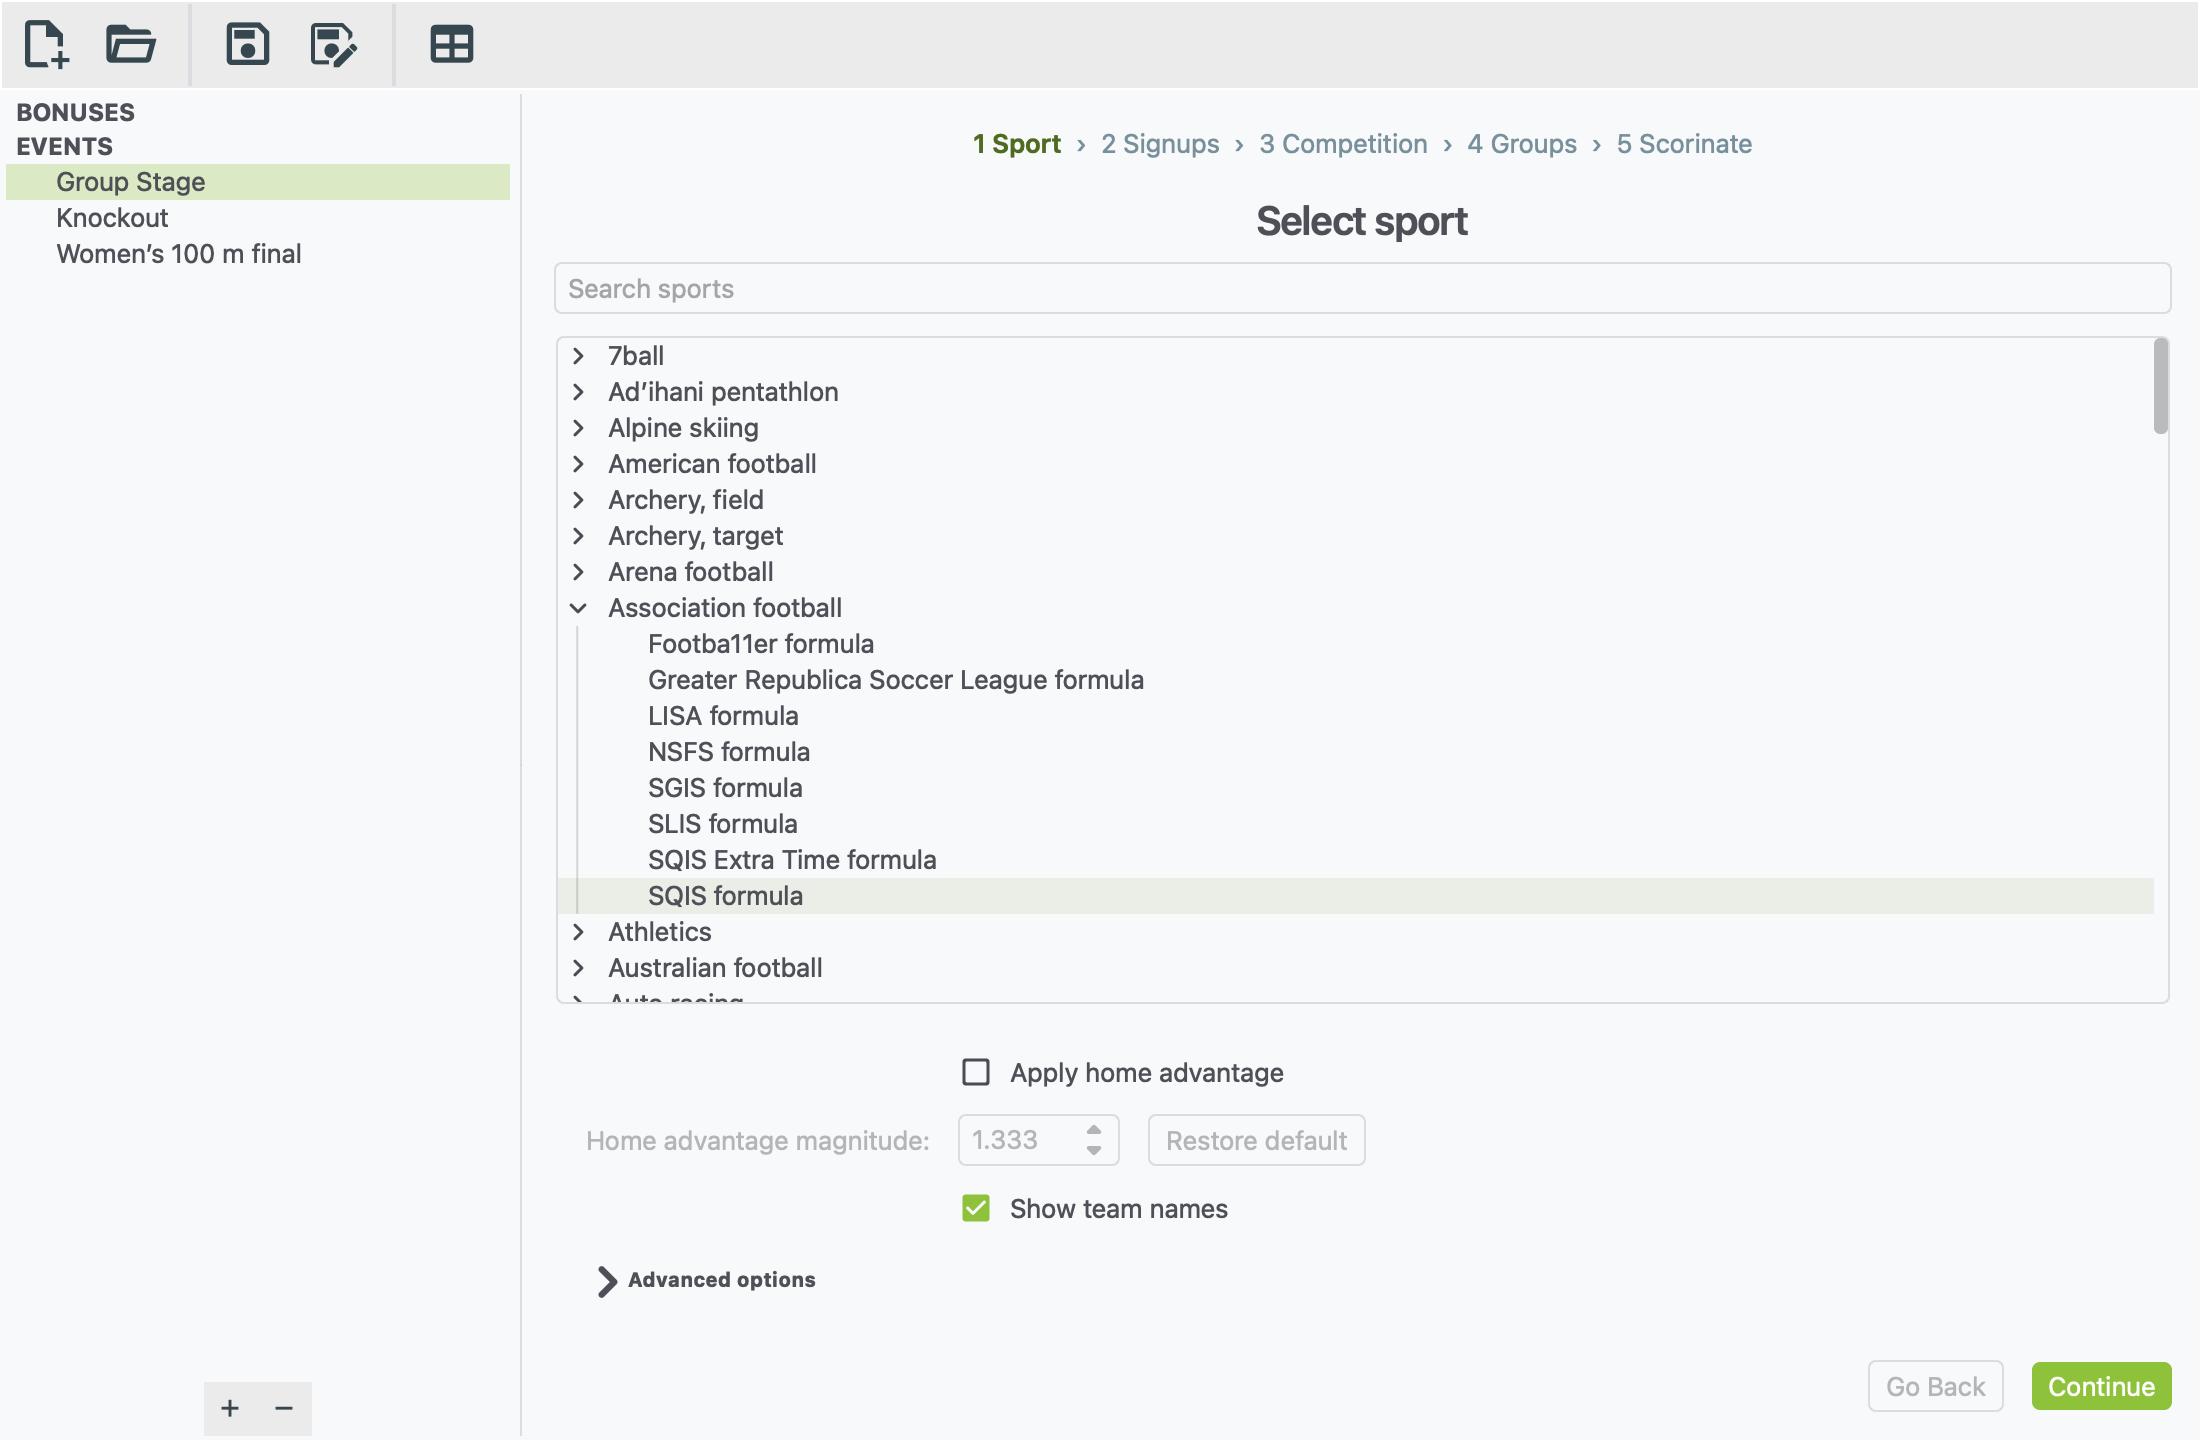
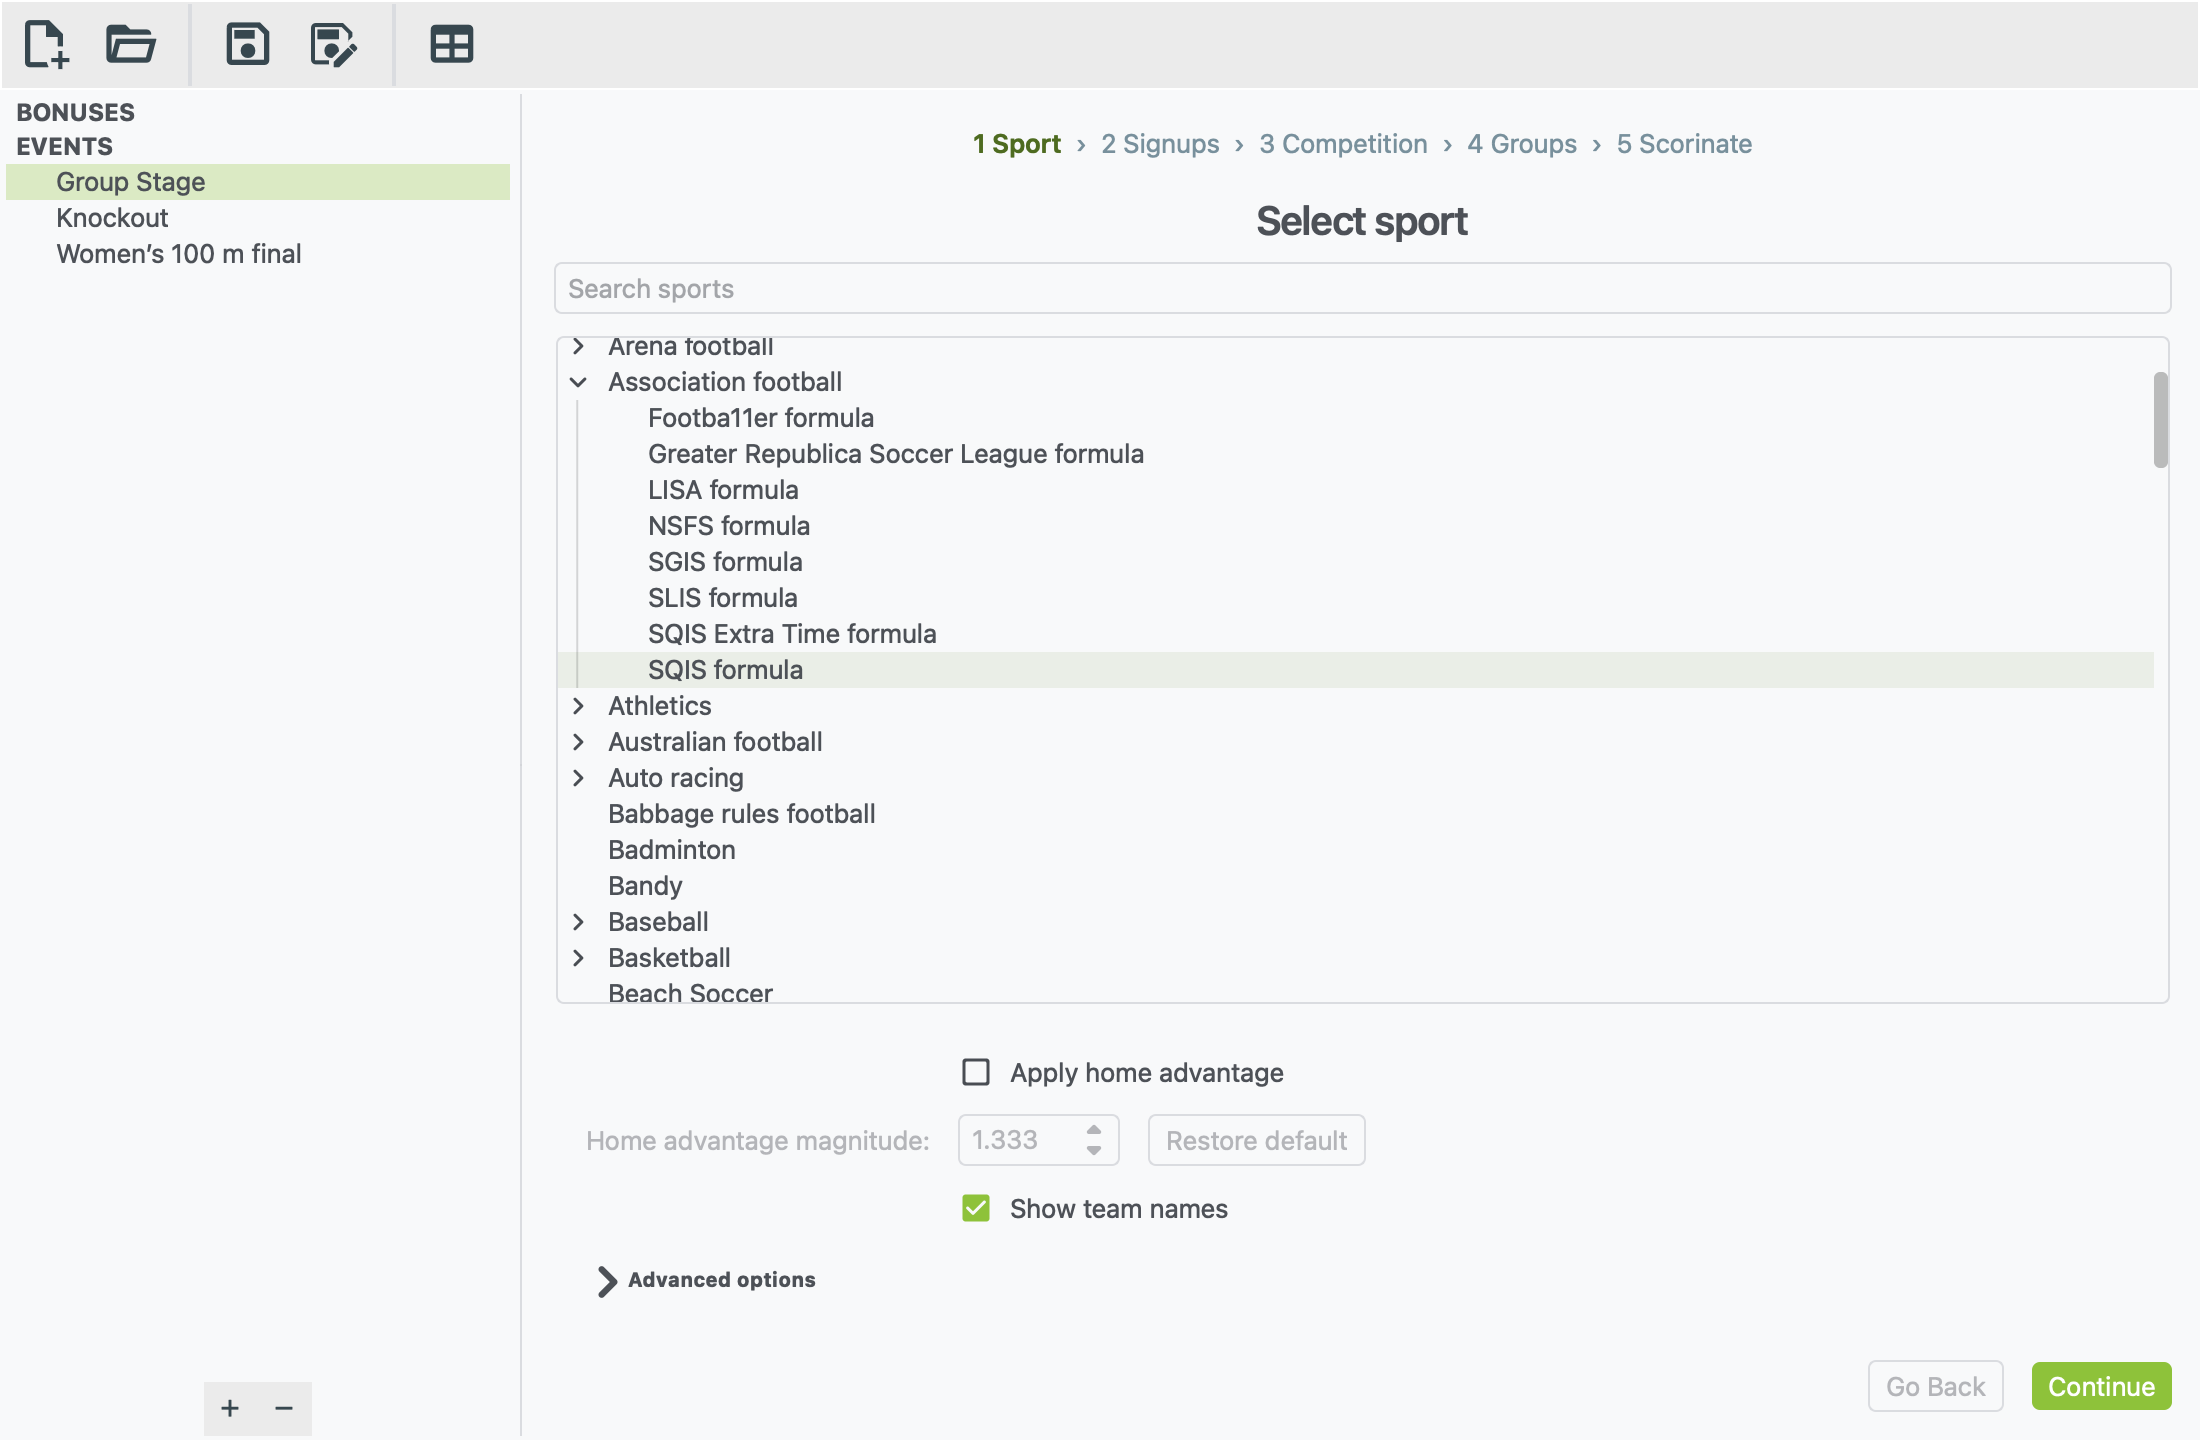
Walk through setting up a race, with a screenshot of each step
The 100 m final was only ever shown as a finished result. "Your first race"
now sets it up step by step: picking the round, the minimum and maximum
skill a range formula needs, Mass start, one group per race, and what a
race result looks like, including a DQ or DNF. It ends with how to run heats
before a final.

The screenshot script captures each of those steps, and scrolls the sport
list to the selected row so the chosen sport is always in view.

Changed region(s): [[0.2782, 0.2188, 0.5255, 0.7188]]

diff --git a/tools/docs_screenshots.py b/tools/docs_screenshots.py
@@ -160,6 +160,14 @@ class Shooter:
         nw.treeWidget.setCurrentItem(nw.m_eventsItem.child(i), 0)
         self.settle()
 
+    def centre_sport(self):
+        """Scroll the sport list so the chosen sport is in view."""
+        for view in self.app.cw.ee.sportSelector.findChildren(QAbstractItemView):
+            selected = view.selectionModel().selectedIndexes() if view.selectionModel() else []
+            if selected:
+                view.scrollTo(selected[0], QAbstractItemView.PositionAtCenter)
+        self.settle()
+
     def step(self, n):
         """Go to wizard step n (1-5) of the selected event."""
         ee = self.app.cw.ee
@@ -191,10 +199,7 @@ def run(shots, workdir):
                     (3, "05-step-competition"), (4, "06-step-groups")]:
         shots.step(n)
         if n == 1:
-            tree = ee.sportSelector
-            for view in tree.findChildren(type(cw.nw.treeWidget)):
-                if view.currentItem() is not None:
-                    view.scrollToItem(view.currentItem(), view.PositionAtCenter)
+            shots.centre_sport()
         shots.window(name)
 
     shots.modal("07-schedule", ee.viewSchedule)
@@ -233,8 +238,14 @@ def run(shots, workdir):
     with open(results_file, "w", encoding="utf-8") as f:
         f.write("\n".join(lines) + "\n")
 
-    # 100 m final: a race
+    # 100 m final: a race, every step
     shots.select_event(2)
+    for n, name in [(1, "20-race-sport"), (2, "21-race-signups"),
+                    (3, "22-race-competition"), (4, "23-race-groups")]:
+        shots.step(n)
+        if n == 1:
+            shots.centre_sport()
+        shots.window(name)
     shots.step(5)
     sw.scorinateMatchday(0)
     shots.window("16-race-results")

diff --git a/docs/first-race.md b/docs/first-race.md
@@ -1,0 +1,143 @@
+# Your first race
+
+This walk-through takes about 5 minutes. You'll set up a women's 100 m
+final with eight athletes, run it, and get a results list in finishing
+order.
+
+Races work a little differently from matches. Everyone competes at once,
+there are no fixtures, and there's one round instead of several matchdays.
+The five steps are the same, though:
+
+**1 Sport › 2 Signups › 3 Competition › 4 Groups › 5 Scorinate**
+
+If you haven't used xkoranate before, [Your first event](first-event.md)
+explains the basics in more detail.
+
+## Create the event
+
+1. Click **+** at the bottom of the sidebar.
+2. Type `Women's 100 m final` and press <kbd>Enter</kbd>.
+
+Each round of a race is its own event. A full 100 m competition might have
+three events: heats, semi-finals and a final.
+
+## Step 1: pick the race
+
+![Athletics, Women's 100 m, Final selected](screenshots/guide-20-race-sport.png)
+
+1. In the list, click the arrow next to **Athletics**.
+2. Click the arrow next to **Women's 100 m**.
+3. Click **Final**.
+
+You can also type `100 m` in **Search sports** to find it faster.
+
+Many races are split into rounds: **Heats**, **Quarterfinals**,
+**Semifinals** and **Final**. Pick the round you're running. Each round
+has its own range of times:
+
+- The **Final** is a tight field, running from about 10.8 to 11.2
+  seconds.
+- The **Heats** spread much wider, from about 11.1 to 14.8 seconds.
+
+Leave **Show team names** ticked. It puts each athlete's team code after
+their name in the results.
+
+Click **Continue**.
+
+## Step 2: add the athletes
+
+![Eight athletes with their team codes and skill](screenshots/guide-21-race-signups.png)
+
+Add one row per athlete:
+
+1. Click **+** under the list.
+2. Double-click each cell to fill it in:
+    - **Participant**: the athlete's name, such as `Mara Lindqvist`.
+    - **Team**: their nation's code, such as `AUR`.
+    - **Skill**: how good they are, such as `91`.
+3. Repeat for the other seven athletes.
+
+To bring in a list you already have, see
+[Importing sign-ups from a file](building-an-event.md#importing-sign-ups-from-a-file).
+
+**Minimum skill and Maximum skill.** Unlike SQIS football, this race
+formula uses a **range**. Each athlete is judged by where their skill sits
+between the minimum and the maximum, so set these two boxes to the bottom
+and top of your ranking system. Here that's 0 and 100.
+
+- An athlete at the maximum tends to run near the fast end of the round's
+  times. In this final, that's about 10.8 seconds.
+- An athlete near the minimum tends to run near the slow end, about 11.2.
+
+There's always some luck, so the fastest athlete on paper doesn't always
+win.
+
+**Pin to max participant rank** sets the maximum to your fastest
+athlete's skill automatically, so the best athlete in the field is
+treated as top level. Leave it unticked if your ranking system has a fixed
+top.
+
+Click **Continue**.
+
+## Step 3: choose the format
+
+![Mass start selected](screenshots/guide-22-race-competition.png)
+
+**Mass start** is already chosen. It means everyone races at once and is
+ranked by their time.
+
+- **Sort results** lists the athletes in finishing order. Leave it ticked.
+- **Show overall ranking across all groups** adds one combined list across
+  every group. You only need this for heats, to see who was fastest
+  overall. See [Running heats](#running-heats) below.
+
+Click **Continue**.
+
+## Step 4: put everyone in the race
+
+![All eight athletes in a group called Final](screenshots/guide-23-race-groups.png)
+
+For a race, a **group** is one race: one heat, or one final.
+
+1. Click **+** in the toolbar under the list.
+2. Type `Final` and press <kbd>Enter</kbd>.
+3. With the group selected, click **Add all available participants** (the
+   two people with a plus sign).
+
+The order of athletes in the group doesn't matter for a race.
+
+Click **Continue**.
+
+## Step 5: run the race
+
+1. Click the **dice** button under the empty box (**Scorinate event**).
+2. The result appears: every athlete in finishing order, with their time.
+
+![The 100 m final result](screenshots/guide-16-race-results.png)
+
+Some things work differently for a race:
+
+- **There's no round drop-down.** The whole race is one round.
+- **Match odds aren't available.** The **%** button is greyed out because
+  there are no head-to-head matches.
+- **Sometimes an athlete doesn't finish.** Like a real race, there's a
+  small chance an athlete is disqualified or doesn't finish. They're shown
+  as **DQ** or **DNF** instead of a time.
+
+To post it, tick **BBCode output**, click in the results, then select all
+and copy (<kbd>Ctrl</kbd> <kbd>A</kbd>, <kbd>Ctrl</kbd> <kbd>C</kbd>, or
+<kbd>⌘</kbd> on a Mac). Or click **Export to file** to save it as a text
+file. Then **save** your xkoranate file.
+
+## Running heats
+
+To run heats before a final:
+
+1. Make an event called `Women's 100 m heats` and pick **Heats** in step 1.
+2. In step 3, tick **Show overall ranking across all groups**.
+3. In step 4, make one group per heat (`Heat 1`, `Heat 2`, …) and put the
+   athletes in them. To split the field evenly, add everyone to one heat
+   and drag some into the others.
+4. Scorinate. You get each heat's result, then one list of everyone
+   ranked by time.
+5. Make the final as above, with the athletes who qualified.

diff --git a/docs/index.md b/docs/index.md
@@ -18,7 +18,9 @@ results **scorinating**, and you'll see that word throughout the app.
 2. **[Run your first event](first-event.md).** A guided walk-through: a
    football group stage with two groups of four, from an empty window to
    results ready to post. About 10 minutes.
-3. **Keep this guide handy.** Press <kbd>F1</kbd> in xkoranate at any time
+3. **[Run your first race](first-race.md).** A women's 100 m final, start
+   to finish. About 5 minutes.
+4. **Keep this guide handy.** Press <kbd>F1</kbd> in xkoranate at any time
    to open it, or choose **Help › xkoranate manual**.
 
 ## What can it do?

diff --git a/docs/first-event.md b/docs/first-event.md
@@ -172,10 +172,11 @@ use **File › Open** to come back to it. Your results are kept in the file.
 
 ## Where next?
 
+- [Your first race](first-race.md) sets up a 100 m final, which works a
+  little differently from matches.
 - When the groups are finished, make a **Knockout** event in the same
   file for the teams that went through. See
   [Knockout brackets](building-an-event.md#knockout-brackets).
-
 - [Setting up an event](building-an-event.md) explains everything on each
   step, including knockout cups and races.
 - The [table generator](table-generator.md) makes a league table from

diff --git a/docs/building-an-event.md b/docs/building-an-event.md
@@ -278,7 +278,8 @@ In a knockout cup, each round ends with the next round's fixtures:
 
 ![Semi-final results, followed by the final's line-up](screenshots/guide-15-knockout-results.png)
 
-A race shows everyone in finishing order:
+A race shows everyone in finishing order. [Your first race](first-race.md)
+walks through setting one up.
 
 ![A 100 m final](screenshots/guide-16-race-results.png)
 
